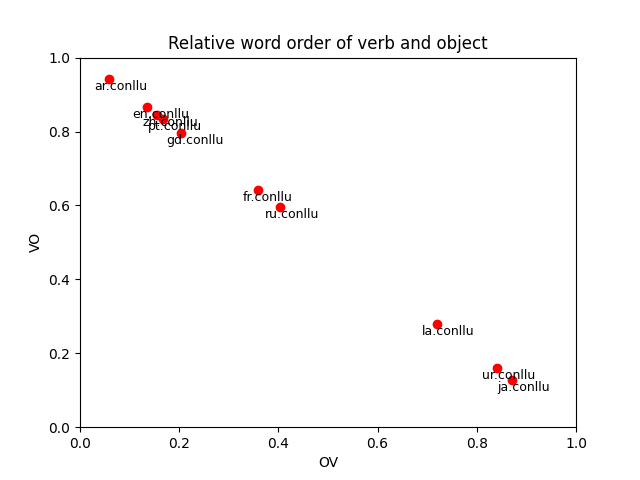
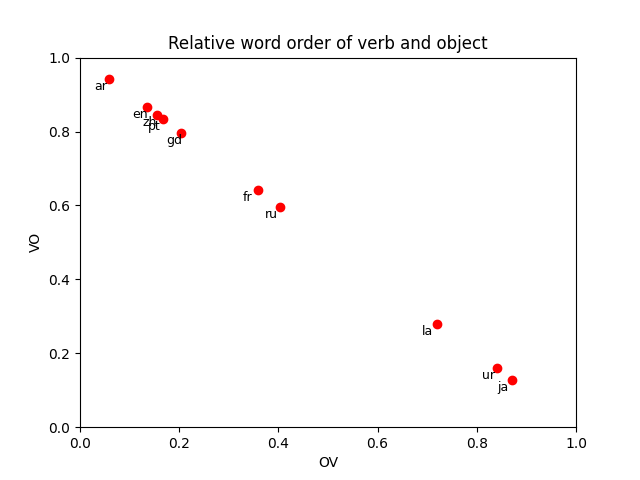
Update

diff --git a/04_Parsing/wordorder.py b/04_Parsing/wordorder.py
@@ -26,9 +26,7 @@ def word_order(iter):
     for sentence in iter:
         for token in sentence:
             t = token.conll().split("\t")
-            #print(t)
             if t[7] == 'obj':
-                #print(t)
                 head = sentence[t[6]].conll().split('\t')
                 if head[3] == 'VERB':
                     if head[0] > t[0]:
@@ -48,7 +46,7 @@ def main():
     gd = 'gd.conllu'
     ur = 'ur.conllu'
     
-    langs = [ar, zh, en, fr, ja, la, pt, ru, gd, ur]
+    langs = ['ar', 'zh', 'en', 'fr', 'ja', 'la', 'pt', 'ru', 'gd', 'ur']
     x = []
     y = []
 

diff --git a/04_Parsing/README.md b/04_Parsing/README.md
@@ -4,4 +4,4 @@ I performed a word order study on Arabic, Chinese, English, French, Japanese, La
 
 My results are below:
 
-![A graph of OV vs. VO word order in 10 languages.](/parsing.png)
+![A graph of OV vs. VO word order in 10 languages.](/04_Parsing/parsing.png)
